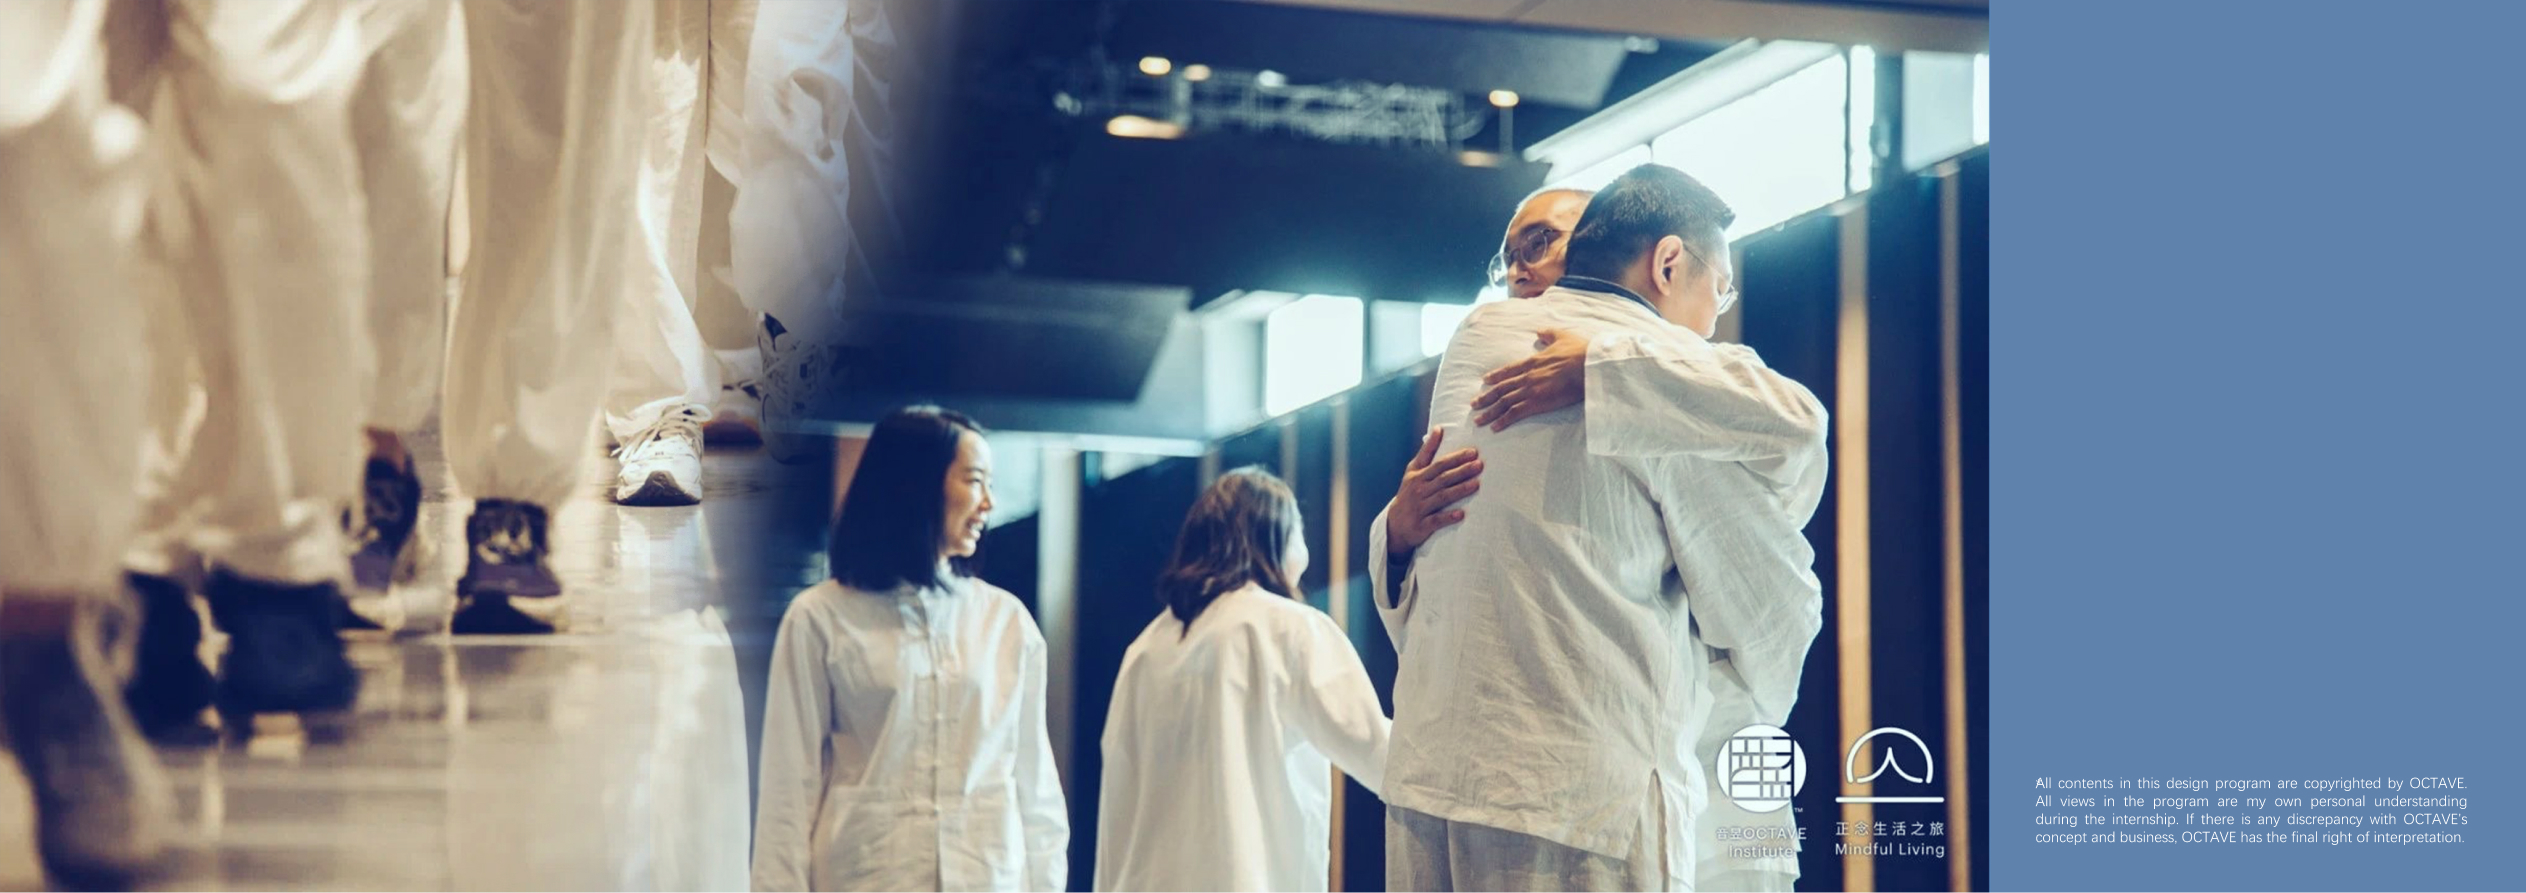
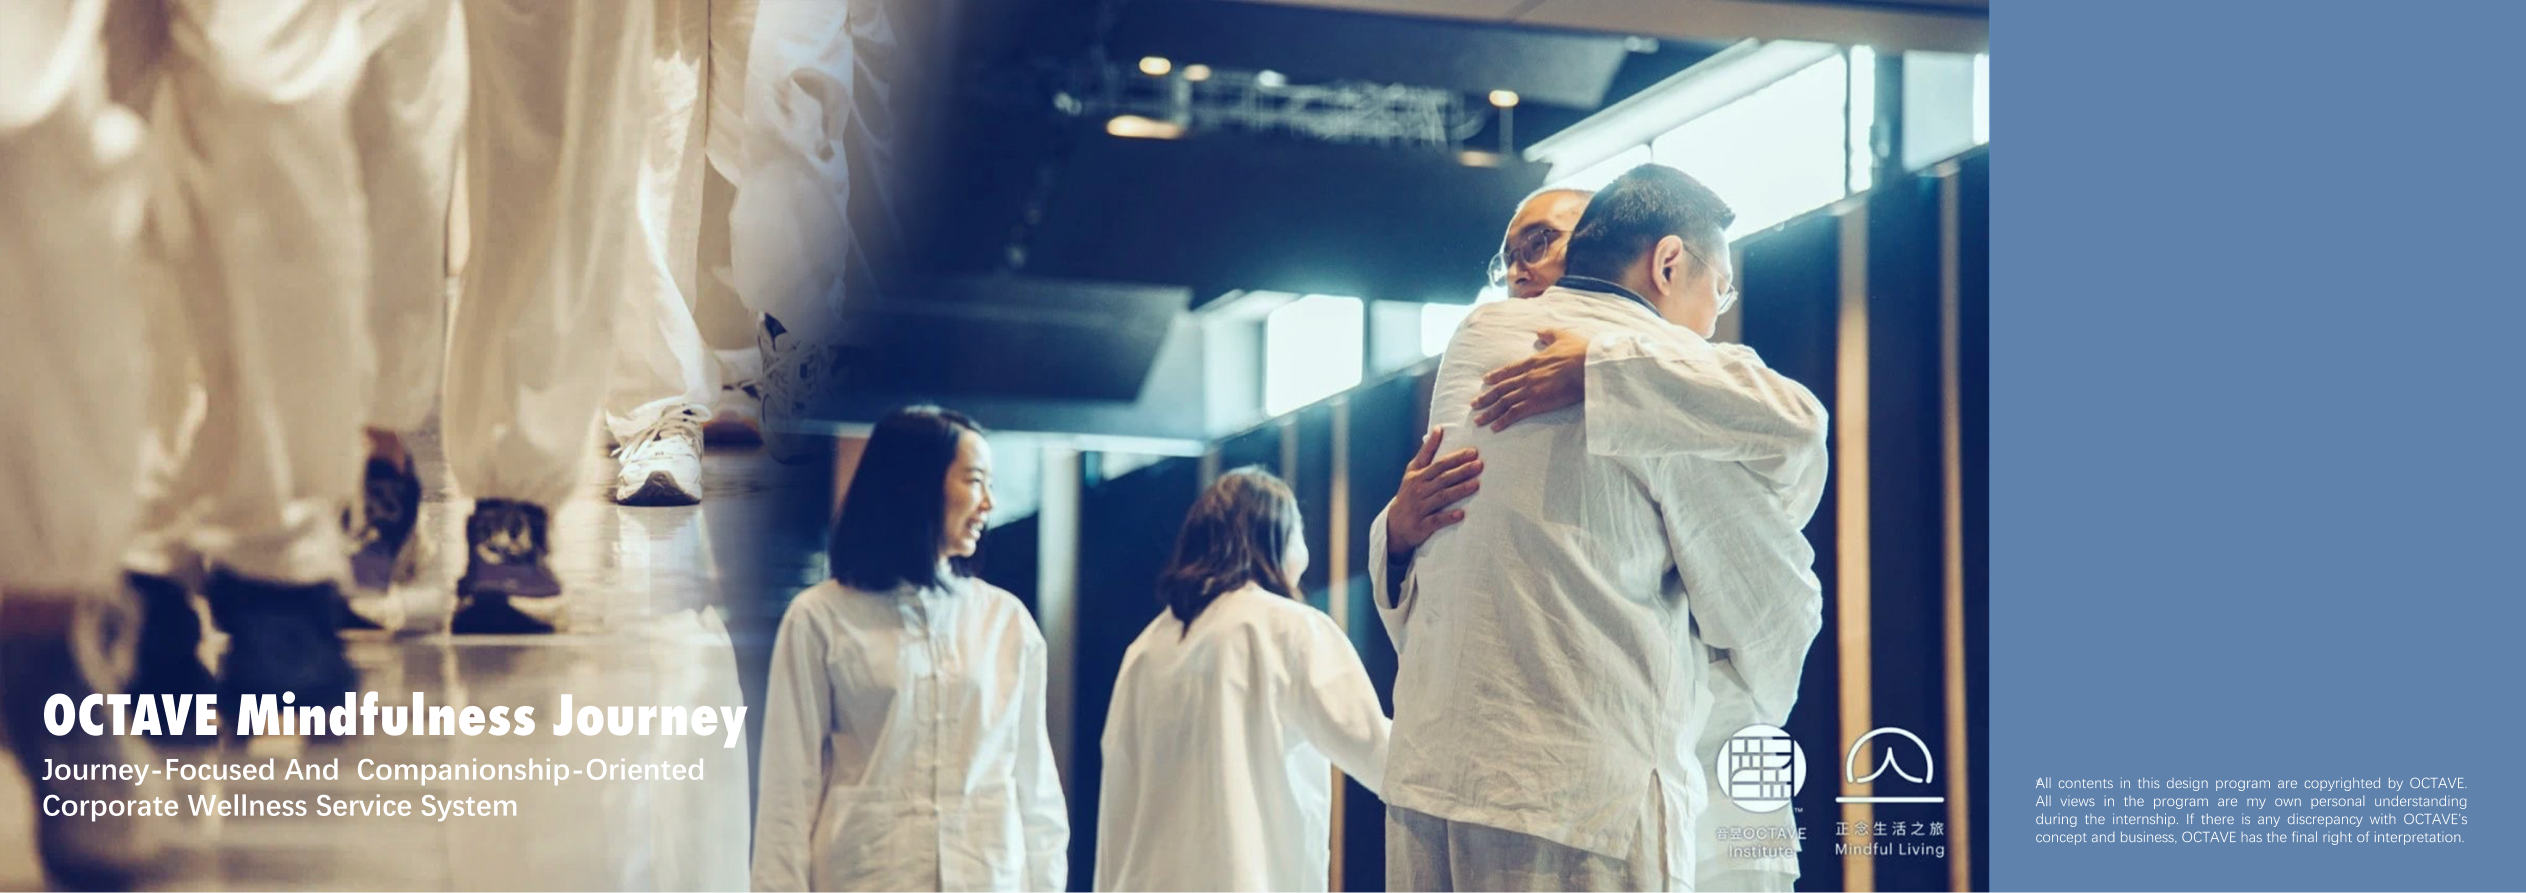
upd

Changed region(s): [[0.0, 0.7559, 0.3088, 0.9373]]

diff --git a/wujidao.html b/wujidao.html
@@ -161,14 +161,19 @@
 								</div>
 								<!-- 右侧文字介绍区 -->
 								<div style="flex: 1; max-width: 30%; margin-right: 20px;">
-								  <h1 style="font-size: 1.2em; margin-top: 1em; margin-bottom: 0.5em;">悟脊道——青少年脊柱侧弯干预产品服务体系设计</h1>
-								  <p style="font-size: 0.6em; color: #444; line-height: 1.8;">
-									本项目获第十六届国际用户体验创新大赛全国二等奖（OPPO企业命题赛道）。
-									<br>青少年脊柱健康问题已成为继肥胖、近视后的第三大“杀手”，然而，针对中轻度脊柱问题的干预服务仍存在空白。本项目通过桌面研究、专家访谈、服务方实地调研、用户探针和网络民族志等方法，洞察出聚焦预防性日常运动干预而非医治视角，促进青少年主动参与、快乐坚持的脊柱健康管理。
-									本项目提出解决方案悟脊道，一个面向青少年的脊柱健康干预服务生态系统。通过手机端、智能手表、智能腰带与电视终端的联动，实现多设备协同智联，为青少年及其家长提供便捷、可靠的服务体验。
-									在后台系统方面，方案为悟脊道建立了闭环的服务数据可持续框架，涵盖用户照护者、服务机构、中小学校、医疗研究团队、供应商及政府相关部门，实现多方协作共益。
-									在用户交互层面，悟脊道引入游戏化叙事，围绕“大圣AI Agent”构建数字交互体验。大圣虚拟教练基于真实世界的数据，灵活调用多种工具能力，包括将运动处方游戏化、制定个性化健脊计划、通过动作捕捉提供即时声光反馈，以及与用户互动汇报健康进展等，降低服务人员负担，优化家、校、社跨场景的健康服务体验。
+								  <h1 class="project-inner-title">基于AI Agent的游戏化青少年脊柱健康产品服务体系设计</h1>
+								  <p class="project-inner-award">
+									本项目获第十六届国际用户体验创新大赛全国二等奖（OPPO企业命题赛道）
 								  </p>
+								  <p class="project-inner-description">
+									青少年脊柱健康已成为继肥胖、近视后的第三大“隐形杀手” ⚠🧒，但针对中轻度脊柱问题的服务仍存在空白。通过桌面研究📄、专家访谈👩⚕、实地调研🏢、用户探针🔍 和网络民族志🌐 等方法，发现预防性日常运动干预，而非单纯医治，更能激励青少年主动参与、快乐坚持 🎯。
+									<br>
+									<br>悟脊道是面向青少年的 脊柱健康干预服务生态系统 🌿。手机端📱、智能手表⌚、智能腰带🏋 和电视终端📺 联动，实现 多设备协作智联，为青少年及其家长提供便捷、可靠的服务体验。
+									<br>
+									<br>在用户交互层面，引入 游戏化叙事，围绕 “大圣AI Agent” 🐵🤖 构建数字互动体验。大圣教练基于真实世界的身体、运动、处方、空间数据，将运动处方游戏化🎮、制定个性化健脊计划📃、动作捕捉即时反馈🎵、互动汇报健康进展💡。这一设计不仅减轻服务人员负担，也优化了家庭、学校与社区跨场景健康体验 🏠🏫🌳。
+									<br>
+									<br>在后台系统上，系统梳理了闭环服务数据框架 🔄，覆盖青少年和家长用户、服务机构、中小学、医疗研究团队、供应商及政府部门 🤝，实现多方协作共益。
+								</p>
 								</div>
 							  </div>
 						</div>

diff --git a/BusinessEspoo.html b/BusinessEspoo.html
@@ -152,13 +152,17 @@
 						</div>
 						<!-- 右侧文字介绍区 -->
 						<div class="carousel-text" style="flex: 1; max-width: 30%; margin-right: 10px;">
-						  <h1 style="font-size: 1.6em; margin-top: 0.5em; margin-bottom: 1em;">Reframing the Competence Development Package to Align with the SME Lifecycle</h1>
-						  <p style="font-size: 0.6em; color: #444; line-height: 1.4;">
+						  <h1 class="project-inner-title">Reframing the Competence Development Package to Align with the SME Lifecycle</h1>
+						  <p class="project-inner-award">
 							This project was part of the Designing for Services course in the MFA program at Aalto University, conducted in collaboration with the City of Espoo.
-							<br>Working with a multidisciplinary team of four other students, we explored how Business Espoo’s Competence Development Package could better support small and medium-sized enterprises (SMEs) in a more relevant and impactful way.
-							<br>The Competence Development Package is one of six core services provided by the Business Espoo network, a public-sector collaboration among seven organizations focused on entrepreneurship, business growth, and employment. While the package offers a range of training programs to help SMEs stay competitive, it has been underutilized.
-							<br>To identify improvement opportunities, we conducted desktop research, interviews with SME representatives and internal stakeholders, and facilitated a co-creation workshop within the Business Espoo network. 
-							<br>We proposed a lifecycle-based structure for the Competence Development Package, with each stage highlighting the value it addresses and specific service touchpoints to enhance the service delivery experience.The outcome provides a strategic foundation for Business Espoo to continue developing the service in a more SME-centric manner.
+						  </p>
+						  <p class="project-inner-description">
+							Working with a multidisciplinary team 👥, we explored how Business Espoo’s Competence Development Package could better support SMEs 💼.
+							The package, offered by a public-sector collaboration network 🌐, includes training programs to help SMEs stay competitive, but was underutilized.
+							<br>
+							<br>Through desktop research📄, SME and stakeholder interviews👔, and a co-creation workshop🛠, we identified improvement opportunities and designed a lifecycle-based structure 🔄 for the package. Each stage clearly highlights its value proposition 🌟 and key touchpoints ✨, enhancing the overall service delivery experience.
+							<br>
+							<br>Our solution provides a strategic, SME-centric foundation for Business Espoo to evolve the package into a more engaging, effective, and usable service 🚀.
 						  </p>
 						</div>
 					  </div>

diff --git a/BAVA.html b/BAVA.html
@@ -2,7 +2,7 @@
 
 <html>
 	<head>
-		<title>Marketing Strategy Innovation for BMW Driven by Brand Culture</title>
+		<title>BMW Test-Drive Experience Design</title>
 		<meta charset="utf-8" />
 		<meta name="viewport" content="width=device-width, initial-scale=1, user-scalable=no" />
 		<link rel="stylesheet" href="assets/css/main.css" />
@@ -146,12 +146,17 @@
 						</div>
 						<!-- 右侧文字介绍区 -->
 						<div class="carousel-text" style="flex: 1; max-width: 30%; margin-right: 10px;">
-						  <h1 style="font-size: 1.6em; margin-top: 0.5em; margin-bottom: 1em;">Marketing Strategy Innovation for BMW Driven by Brand Culture</h1>
-						  <p style="font-size: 0.6em; color: #444; line-height: 1.4;">
+						  <h1 class="project-inner-title">BMW Test-Drive Experience Design: Integrating AIGC and Brand Culture</h1>
+						  <p class="project-inner-award">
 							This project showcases the design outcomes from the 2023 BMW X University Student Co-Innovation Challenge.
-							<br>Our brief centered on reimagining BMW’s marketing approach in the era of AI. We focused on user pain points in the car-buying journey and identified the test drive as a key moment of influence. We found that delivering an empathetic and accurate user profile during this stage can significantly enhance decision confidence.
-							<br>With AIGC technology, we reframed the test drive into a participatory marketing experience. We selected BMW’s BAVA IP to create personalized digital avatars for test drive participants. These avatars reflect individual driving styles and preferences, suggest tailored vehicle matches, and connect users to the BAVA family.
-							<br>Our final deliverables include a test drive customer journey map, UI prototypes, and BAVA persona AIGC test.
+						  </p>
+						  <p class="project-inner-description">
+							<br>
+							With the brief focused on reimagining BMW’s marketing in the AI era 🤖🚗, we zoomed in on user pain points along the car-buying journey and identified the test drive as a pivotal moment ✨. Delivering an empathetic, accurate user profile at this stage can greatly boost decision confidence ✅.
+							<br>
+							<br>Leveraging AIGC technology 🧠, we transformed the test drive into a participatory marketing experience. Using BMW’s BAVA IP, we created personalized digital avatars 👤 that reflect individual driving styles and preferences, recommend tailored vehicles 🚘, and connect users to the BAVA family ❤.
+							<br>
+							<br>Final deliverables include a test drive customer journey map, UI prototypes, and BAVA persona AIGC tests 🗂.
 						  </p>
 						</div>
 					  </div>

diff --git a/SOS lapsikyla.html b/SOS lapsikyla.html
@@ -182,12 +182,14 @@
 								
 								<!-- 文字介绍区域 -->
 								<div class="text-section" >
-									<h1 style="font-size: 1.6em; margin-top: 1em; margin-bottom: 0.5em;">Developing a Partnership Strategy for SOS Lapsikylä to Strengthen Children's Rights in Corporate ESG Practices</h1>
-									<p style="font-size: 0.6em; color: #444; line-height: 1.4;">
-										This project was part of the Capstone in Creative Sustainability course at Aalto University, conducted in collaboration with SOS Lapsikylä, the Finnish branch of the international NGO SOS Children’s Villages.
-										<br>Against the backdrop of the EU’s Corporate Sustainability Reporting Directive (CSRD) and the European Sustainability Reporting Standards (ESRS), the client sought to expand its corporate partnership network by helping companies better integrate children's rights into their supply chains and ESG reporting.
-										<br>Our design team’s objective was to create practical tools and actionable guidance for SOS Lapsikylä.
-										<br>Through academic research, sustainability benchmarking, and expert interviews, we ultimately developed a Partnership Handbook, a ready-to-use resource as an entry point for improving the low disclosure reality and starting the partnership.
+									<h1 class="project-inner-title">Developing a Partnership Strategy to Strengthen Children's Rights in Corporate ESG Practices</h1>
+									<p class="project-inner-award">
+										This project was from the Capstone in Creative Sustainability course at Aalto University, in collaboration with SOS Lapsikylä, the Finnish branch of the international NGO SOS Children’s Villages.
+									</p>
+									<p class="project-inner-description">
+										Against the backdrop of the EU’s Corporate Sustainability Reporting Directive (CSRD) and the European Sustainability Reporting Standards (ESRS), the client sought to expand its corporate partnership network by helping companies better integrate children's rights into their supply chains and ESG reporting.
+										Our design team’s objective was to create practical tools and actionable guidance for SOS Lapsikylä.
+										Through academic research, sustainability benchmarking, and expert interviews, we ultimately developed a Partnership Handbook, a ready-to-use resource as an entry point for improving the low disclosure reality and starting the partnership.
 									</p>
 					</div>
 

diff --git a/STTTS.html b/STTTS.html
@@ -2,7 +2,7 @@
 
 <html>
 	<head>
-		<title>Campus Energy Transition Strategy for Tongji University</title>
+		<title>Campus Energy Transition Strategy Designfor Tongji University</title>
 		<meta charset="utf-8" />
 		<meta name="viewport" content="width=device-width, initial-scale=1, user-scalable=no" />
 		<link rel="stylesheet" href="assets/css/main.css" />
@@ -181,10 +181,16 @@
 						</div>
 						<!-- 右侧文字介绍区 -->
 						<div style="flex: 1; max-width: 30%; margin-right: 10px;">
-						  <h1 style="font-size: 1.6em; margin-top: 0.5em; margin-bottom: 1em;">Campus Energy Transition Strategy for Tongji University</h1>
-						  <p style="font-size: 0.6em; color: #444; line-height: 1.4;">
+						  <h1 class="project-inner-title">Campus Energy Transition Strategy Design for Tongji University</h1>
+						  <p class="project-inner-award">
 							This project was part of the Socio-Technical Transitions Towards Sustainability course at Tongji University, in collaboration with Aalto University.
-							<br>Working with five other students, we explored and envisioned a possible energy transition pathway for the Tongji University campus, grounded in the current energy system and relevant policy frameworks.
+						  </p>
+						  <p class="project-inner-description">
+							<br>
+							Working with five other students, we explored and envisioned a possible energy transition pathway for the Tongji University campus, grounded in the current energy system and relevant policy frameworks.
+							<br>
+							<br>Throughout the process, we applied the socio-technical systems framework and the transition arena approach to understand the challenge from a multi-level perspective and identify leverage points for systemic change.
+							<br>
 							<br>Throughout the process, we applied the socio-technical systems framework and the transition arena approach to understand the challenge from a multi-level perspective and identify leverage points for systemic change.
 						  </p>
 						</div>

diff --git a/OCTAVE.html b/OCTAVE.html
@@ -167,11 +167,13 @@
 								
 								<!-- 文字介绍区域 -->
 								<div class="text-section" >
-									<h1 style="font-size: 1.6em; margin-top: 1em; margin-bottom: 0.5em;">Journey-Focused Corporate Wellbeing Service System Design</h1>
-									<p style="font-size: 0.6em; color: #444; line-height: 1.4;">
+									<h1 class="project-inner-title">Journey-Focused Corporate Wellbeing Service System Design</h1>
+									<p class="project-inner-award">
 										This project exhibits part of my work during an internship in the IT Department of the Octave Institute, a wellbeing-focused company under the IMC Group.
-										<br>This internship marked a key transition in my design journey, from architecture to product-service system design. It gave me an opportunity to apply newly acquired service design methodologies in a real-world context, including service blueprinting for analyzing current offerings, ecosystem mapping to explore business expansion opportunities, and UI touchpoint design in detail.
-										<br>I also realized that my background in architecture remained valuable in understanding human behavior and designing coherent, scenario-based service systems, even in a new design context.
+									</p>
+									<p class="project-inner-description">
+										This project marked a key shift in my design journey 🏛➡💡, moving from architecture to product-service system design. I got to apply service design methodologies in a real-world context: service blueprinting 🗺 to analyze current offerings, ecosystem mapping 🌐 to explore business opportunities, and high-fidelity UX touchpoints 🎨 that clearly convey value propositions.
+										My architecture design background also proved valuable in helping me understand human behavior❤ and design coherent, scenario-based service systems🧠.	
 									</p>
 					</div>
 

diff --git a/CoffeePackage.html b/CoffeePackage.html
@@ -158,11 +158,16 @@
 						</div>
 						<!-- 右侧文字介绍区 -->
 						<div style="flex: 1; max-width: 30%; margin-right: 10px;">
-						  <h1 style="font-size: 1.6em; margin-top: 0.5em; margin-bottom: 1em;">Ritual as a Strategy for Coffee Packaging Innovation</h1>
-						  <p style="font-size: 0.6em; color: #444; line-height: 1.4;">
+						  <h1 class="project-inner-title">Ritual as a Strategy for Coffee Packaging Innovation</h1>
+						  <p class="project-inner-award">
 							This project presents user research insights developed during the User Research course at Tongji University, in collaboration with Goglio S.p.A., a leading manufacturer of integrated packaging systems.
-							<br>The client invited us to explore new directions for coffee packaging innovation. Through case studies and in-depth interviews, we identified ritual as a critical and interesting driver of consumer engagement and purchase behavior. 
+						  </p>
+						  <p class="project-inner-description">
+							<br>
+							The client invited us to explore new directions for coffee packaging innovation. Through case studies and in-depth interviews, we identified ritual as a critical and interesting driver of consumer engagement and purchase behavior. 
+							<br>
 							<br>We designed and facilitated a cultural probing workshop with 10 participants to explore which elements coffee consumers associate with a ritualistic packaging experience, and how such elements might be supported through design.
+							<br>
 							<br>The final deliverable was a design brief with our definition of ritual coffee package, to inspire further research and development inside Goglio Group.
 						  </p>
 						</div>
